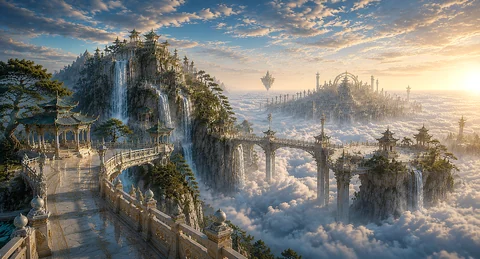
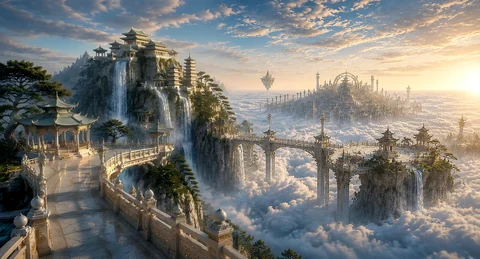
Update portfolio

diff --git a/projects/yunding-tianguan.html b/projects/yunding-tianguan.html
@@ -26,7 +26,7 @@
 <link rel="icon" href="../assets/favicon.svg?v=e613d47a7a" type="image/svg+xml">
   <link rel="apple-touch-icon" href="../assets/apple-touch-icon.png?v=dbd2642b0e">
   <link rel="preload" href="../assets/fonts/cloudscape-serif.woff2?v=8f5550c645" as="font" type="font/woff2" crossorigin>
-  <link rel="stylesheet" href="../assets/css/site.css?v=2d228b0b36">
+  <link rel="stylesheet" href="../assets/css/site.css?v=64aaa470ec">
   <link rel="stylesheet" href="../assets/css/media.css?v=beb31ec349">
   <link rel="stylesheet" href="../assets/css/atmosphere.css?v=e4cf0e9653">
   <link rel="stylesheet" href="../assets/css/portfolio.css?v=f0be103961">
@@ -93,7 +93,7 @@
   </dialog>
   <main id="top">
     <section class="project-cover" aria-labelledby="project-cover-title">
-<picture><source media="(max-aspect-ratio: 4/5)" srcset="../assets/img/covers/yunding-tianguan-hero-phone-714.webp?v=07d324b59e 714w" sizes="100vw" width="714" height="1429"><img class="project-cover-image" src="../assets/img/covers/yunding-tianguan-hero.webp?v=d224fb7e2d" srcset="../assets/img/covers/yunding-tianguan-hero-480.webp?v=2389083c85 480w, ../assets/img/covers/yunding-tianguan-hero-960.webp?v=5bf328b41e 960w, ../assets/img/covers/yunding-tianguan-hero-1440.webp?v=16ef71479d 1440w, ../assets/img/covers/yunding-tianguan-hero-1920.webp?v=9b66bc1253 1920w, ../assets/img/covers/yunding-tianguan-hero.webp?v=d224fb7e2d 2560w" sizes="100vw" width="2560" height="1429" alt="暮色云海之上的白玉金檐宫城，长桥与御阶穿过云层连向主殿。" fetchpriority="high" decoding="async"></picture>
+<picture><source media="(max-aspect-ratio: 4/5)" srcset="../assets/img/covers/yunding-tianguan-hero-phone-714.webp?v=7b09b2f61b 714w" sizes="100vw" width="714" height="1429"><img class="project-cover-image" src="../assets/img/covers/yunding-tianguan-hero.webp?v=4711a5bbb7" srcset="../assets/img/covers/yunding-tianguan-hero-480.webp?v=54c3245cc1 480w, ../assets/img/covers/yunding-tianguan-hero-960.webp?v=6b148f371e 960w, ../assets/img/covers/yunding-tianguan-hero-1440.webp?v=207d3c9934 1440w, ../assets/img/covers/yunding-tianguan-hero-1920.webp?v=b975ef879a 1920w, ../assets/img/covers/yunding-tianguan-hero.webp?v=4711a5bbb7 2560w" sizes="100vw" width="2560" height="1429" alt="暮色云海之上的白玉金檐宫城，长桥与御阶穿过云层连向主殿。" fetchpriority="high" decoding="async"></picture>
       <div class="hero-shade" aria-hidden="true"></div>
       <div class="project-cover-copy">
         <p class="eyebrow"><span class="eyebrow-rule" aria-hidden="true"></span>场景气氛 <span class="eyebrow-separator">/</span> 2026</p>
@@ -211,8 +211,8 @@
               <span class="work-image"><img src="../assets/img/scenes/yunding-tianguan/26-curved-pool-view.webp?v=8568f556c7" srcset="../assets/img/scenes/yunding-tianguan/26-curved-pool-view-480.webp?v=33be0958e2 480w, ../assets/img/scenes/yunding-tianguan/26-curved-pool-view-960.webp?v=28b457e362 960w, ../assets/img/scenes/yunding-tianguan/26-curved-pool-view.webp?v=8568f556c7 1672w" sizes="(max-width: 640px) 50vw, (max-width: 1440px) 46vw, 700px" width="1672" height="941" alt="弯曲水池沿殿前庭院展开，栏杆引向远处主殿。" loading="lazy" decoding="async"></span>
               <span class="work-caption"><span class="work-meta"><small>16 / 曲池</small><strong>曲池望殿</strong></span><span class="work-description">曲水将庭院的边界轻轻推向云海。</span><span class="work-open" aria-hidden="true">↗</span></span>
             </button>
-            <button disabled class="work-card work-card--panorama" type="button" data-work-index="16" data-full="../assets/img/scenes/yunding-tianguan/27-mountain-path-palace.webp?v=72e49d6dc6" data-thumb="../assets/img/scenes/yunding-tianguan/27-mountain-path-palace-480.webp?v=a6870067d4" aria-label="查看场景 17：山径云宫">
-              <span class="work-image"><img src="../assets/img/scenes/yunding-tianguan/27-mountain-path-palace.webp?v=72e49d6dc6" srcset="../assets/img/scenes/yunding-tianguan/27-mountain-path-palace-480.webp?v=a6870067d4 480w, ../assets/img/scenes/yunding-tianguan/27-mountain-path-palace-960.webp?v=9085f36015 960w, ../assets/img/scenes/yunding-tianguan/27-mountain-path-palace-1440.webp?v=19cce9dba5 1440w, ../assets/img/scenes/yunding-tianguan/27-mountain-path-palace-1920.webp?v=8efdd0fbb9 1920w, ../assets/img/scenes/yunding-tianguan/27-mountain-path-palace.webp?v=72e49d6dc6 2560w" sizes="(max-width: 640px) 50vw, (max-width: 1440px) 46vw, 700px" width="2560" height="1429" alt="山间石径沿花树与栏杆伸向云中宫城，亭阁立在右侧。" loading="lazy" decoding="async"></span>
+            <button disabled class="work-card work-card--panorama" type="button" data-work-index="16" data-full="../assets/img/scenes/yunding-tianguan/27-mountain-path-palace.webp?v=74b2aa74c3" data-thumb="../assets/img/scenes/yunding-tianguan/27-mountain-path-palace-480.webp?v=a109b535a1" aria-label="查看场景 17：山径云宫">
+              <span class="work-image"><img src="../assets/img/scenes/yunding-tianguan/27-mountain-path-palace.webp?v=74b2aa74c3" srcset="../assets/img/scenes/yunding-tianguan/27-mountain-path-palace-480.webp?v=a109b535a1 480w, ../assets/img/scenes/yunding-tianguan/27-mountain-path-palace-960.webp?v=300d104c2e 960w, ../assets/img/scenes/yunding-tianguan/27-mountain-path-palace-1440.webp?v=9fb23ab52f 1440w, ../assets/img/scenes/yunding-tianguan/27-mountain-path-palace-1920.webp?v=79a4db9f7f 1920w, ../assets/img/scenes/yunding-tianguan/27-mountain-path-palace.webp?v=74b2aa74c3 2560w" sizes="(max-width: 640px) 50vw, (max-width: 1440px) 46vw, 700px" width="2560" height="1429" alt="山间石径沿花树与栏杆伸向云中宫城，亭阁立在右侧。" loading="lazy" decoding="async"></span>
               <span class="work-caption"><span class="work-meta"><small>17 / 山径</small><strong>山径云宫</strong></span><span class="work-description">回到山径上，桥廊与殿宇在云间连成一幅远景。</span><span class="work-open" aria-hidden="true">↗</span></span>
             </button>
           </div>

diff --git a/index.html b/index.html
@@ -26,7 +26,7 @@
 <link rel="icon" href="./assets/favicon.svg?v=e613d47a7a" type="image/svg+xml">
   <link rel="apple-touch-icon" href="./assets/apple-touch-icon.png?v=dbd2642b0e">
   <link rel="preload" href="./assets/fonts/cloudscape-serif.woff2?v=8f5550c645" as="font" type="font/woff2" crossorigin>
-  <link rel="stylesheet" href="./assets/css/site.css?v=2d228b0b36">
+  <link rel="stylesheet" href="./assets/css/site.css?v=64aaa470ec">
   <link rel="stylesheet" href="./assets/css/media.css?v=beb31ec349">
   <link rel="stylesheet" href="./assets/css/atmosphere.css?v=e4cf0e9653">
   <link rel="stylesheet" href="./assets/css/portfolio.css?v=f0be103961">
@@ -105,7 +105,7 @@
   </aside>
   <main id="top">
     <div class="home-atmosphere">
-<picture><source media="(max-aspect-ratio: 4/5)" srcset="./assets/img/home/hero-phone-720.webp?v=0b5504419d 720w, ./assets/img/home/hero-phone-1080.webp?v=1bd874c592 1080w" sizes="100vw" width="1080" height="2160"><img class="hero-image" src="./assets/img/home/hero.webp?v=ec65b14694" srcset="./assets/img/home/hero-480.webp?v=a7cb30e44f 480w, ./assets/img/home/hero-960.webp?v=02987a636d 960w, ./assets/img/home/hero-1440.webp?v=86d5104722 1440w, ./assets/img/home/hero-1920.webp?v=bd6735a622 1920w, ./assets/img/home/hero.webp?v=ec65b14694 2560w" sizes="100vw" width="2560" height="1382" alt="云海之上的群岛宫城，瀑布从山崖垂落，桥廊连接远处的殿宇。" fetchpriority="high" decoding="async"></picture>
+<picture><source media="(max-aspect-ratio: 4/5)" srcset="./assets/img/home/hero-phone-691.webp?v=d9bdcf0e8c 691w" sizes="100vw" width="691" height="1382"><img class="hero-image" src="./assets/img/home/hero.webp?v=efcb98d21d" srcset="./assets/img/home/hero-480.webp?v=a846cfc896 480w, ./assets/img/home/hero-960.webp?v=92abe0088d 960w, ./assets/img/home/hero-1440.webp?v=44a8df9803 1440w, ./assets/img/home/hero-1920.webp?v=17cb096e1e 1920w, ./assets/img/home/hero.webp?v=efcb98d21d 2560w" sizes="100vw" width="2560" height="1382" alt="云海之上的群岛宫城，瀑布从山崖垂落，桥廊连接远处的殿宇。" fetchpriority="high" decoding="async"></picture>
       <div class="works-atmosphere-drift" aria-hidden="true">
         <img class="works-atmosphere-image" src="./assets/img/home/atmosphere.webp?v=4e0ddab7eb" width="2560" height="1441" alt="" decoding="async">
       </div>

diff --git a/projects/csdzl-lighting.html b/projects/csdzl-lighting.html
@@ -26,7 +26,7 @@
 <link rel="icon" href="../assets/favicon.svg?v=e613d47a7a" type="image/svg+xml">
   <link rel="apple-touch-icon" href="../assets/apple-touch-icon.png?v=dbd2642b0e">
   <link rel="preload" href="../assets/fonts/cloudscape-serif.woff2?v=8f5550c645" as="font" type="font/woff2" crossorigin>
-  <link rel="stylesheet" href="../assets/css/site.css?v=2d228b0b36">
+  <link rel="stylesheet" href="../assets/css/site.css?v=64aaa470ec">
   <link rel="stylesheet" href="../assets/css/media.css?v=beb31ec349">
   <link rel="stylesheet" href="../assets/css/atmosphere.css?v=e4cf0e9653">
   <link rel="stylesheet" href="../assets/css/portfolio.css?v=f0be103961">

diff --git a/projects/kuang-wang.html b/projects/kuang-wang.html
@@ -26,7 +26,7 @@
 <link rel="icon" href="../assets/favicon.svg?v=e613d47a7a" type="image/svg+xml">
   <link rel="apple-touch-icon" href="../assets/apple-touch-icon.png?v=dbd2642b0e">
   <link rel="preload" href="../assets/fonts/cloudscape-serif.woff2?v=8f5550c645" as="font" type="font/woff2" crossorigin>
-  <link rel="stylesheet" href="../assets/css/site.css?v=2d228b0b36">
+  <link rel="stylesheet" href="../assets/css/site.css?v=64aaa470ec">
   <link rel="stylesheet" href="../assets/css/media.css?v=beb31ec349">
   <link rel="stylesheet" href="../assets/css/atmosphere.css?v=e4cf0e9653">
   <link rel="stylesheet" href="../assets/css/portfolio.css?v=f0be103961">

diff --git a/projects/lighting-compositing.html b/projects/lighting-compositing.html
@@ -26,7 +26,7 @@
 <link rel="icon" href="../assets/favicon.svg?v=e613d47a7a" type="image/svg+xml">
   <link rel="apple-touch-icon" href="../assets/apple-touch-icon.png?v=dbd2642b0e">
   <link rel="preload" href="../assets/fonts/cloudscape-serif.woff2?v=8f5550c645" as="font" type="font/woff2" crossorigin>
-  <link rel="stylesheet" href="../assets/css/site.css?v=2d228b0b36">
+  <link rel="stylesheet" href="../assets/css/site.css?v=64aaa470ec">
   <link rel="stylesheet" href="../assets/css/media.css?v=beb31ec349">
   <link rel="stylesheet" href="../assets/css/atmosphere.css?v=e4cf0e9653">
   <link rel="stylesheet" href="../assets/css/portfolio.css?v=f0be103961">

diff --git a/404.html b/404.html
@@ -12,7 +12,7 @@
 <link rel="icon" href="/assets/favicon.svg?v=e613d47a7a" type="image/svg+xml">
   <link rel="apple-touch-icon" href="/assets/apple-touch-icon.png?v=dbd2642b0e">
   <link rel="preload" href="/assets/fonts/cloudscape-serif.woff2?v=8f5550c645" as="font" type="font/woff2" crossorigin>
-  <link rel="stylesheet" href="/assets/css/site.css?v=2d228b0b36">
+  <link rel="stylesheet" href="/assets/css/site.css?v=64aaa470ec">
   <link rel="stylesheet" href="/assets/css/media.css?v=beb31ec349">
   <link rel="stylesheet" href="/assets/css/atmosphere.css?v=e4cf0e9653">
   <link rel="stylesheet" href="/assets/css/portfolio.css?v=f0be103961">

diff --git a/assets/css/site.css b/assets/css/site.css
@@ -1048,7 +1048,7 @@ a, button { color: inherit; }
   width: 100%;
   height: 100%;
   object-fit: cover;
-  object-position: 50% 34%;
+  object-position: 50% 24%;
 }
 
 .project-cover .hero-shade {
